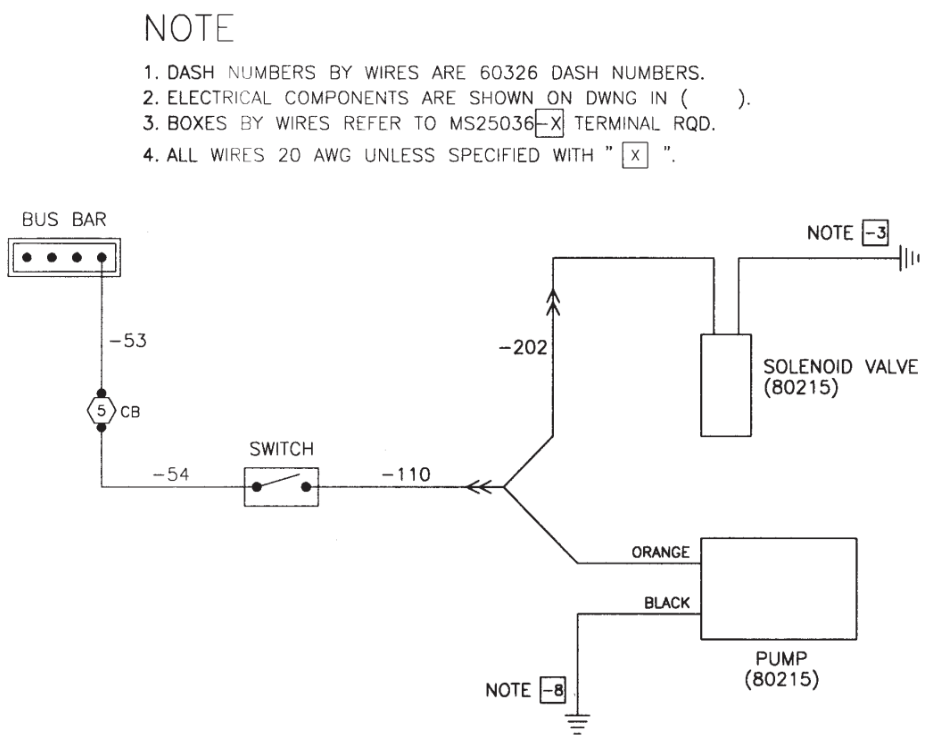
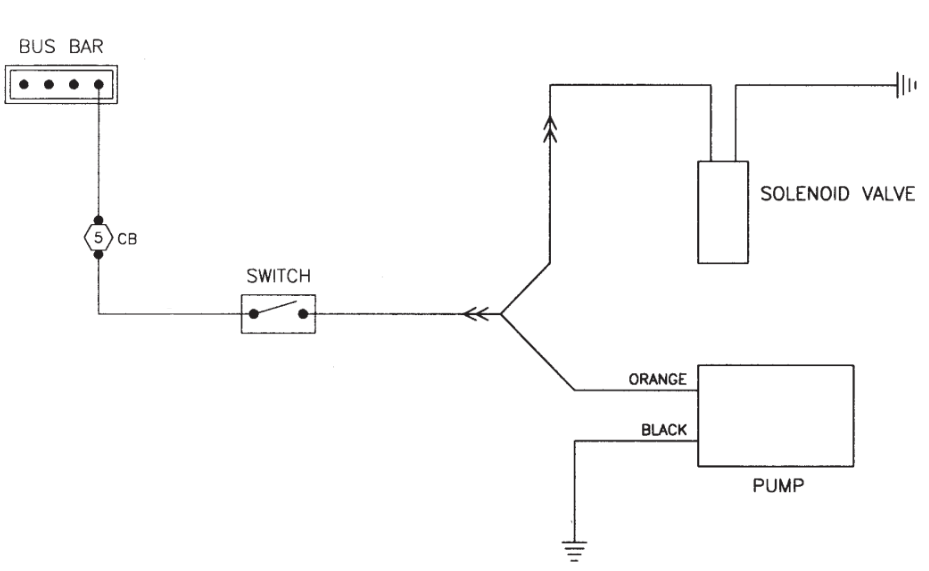
standardize

diff --git a/html/Maintenance/Windshield Washer.html b/html/Maintenance/Windshield Washer.html
@@ -1,8 +1,10 @@
-<p>The wiring schematic for the windshield washer is shown in <xref fileTarget="img_Fig_38.png" xrefType="link">Fig
+<p>
+    The wiring schematic for the windshield washer is shown in <xref fileTarget="img_Fig_38.png" xrefType="link">Fig
         Cross Reference</xref> below. When the switch is closed, the pump's motor starts and the solenoid valve is
     opened. The flow of windshield-washing fluid will continue until the switch it released. The purpose of the solenoid
     is to provide a sharp cut-off of fluid when the switch is released. This prevents the dribbling of fluid onto the
-    windshield. </p>
+    windshield.
+</p>
 <figure>
     <img class="imageCentered_5x3" src="img/img_Fig_38.png">
     <figcaption class="centerText">Wiring Schematic- Windshield Washer</figcaption>